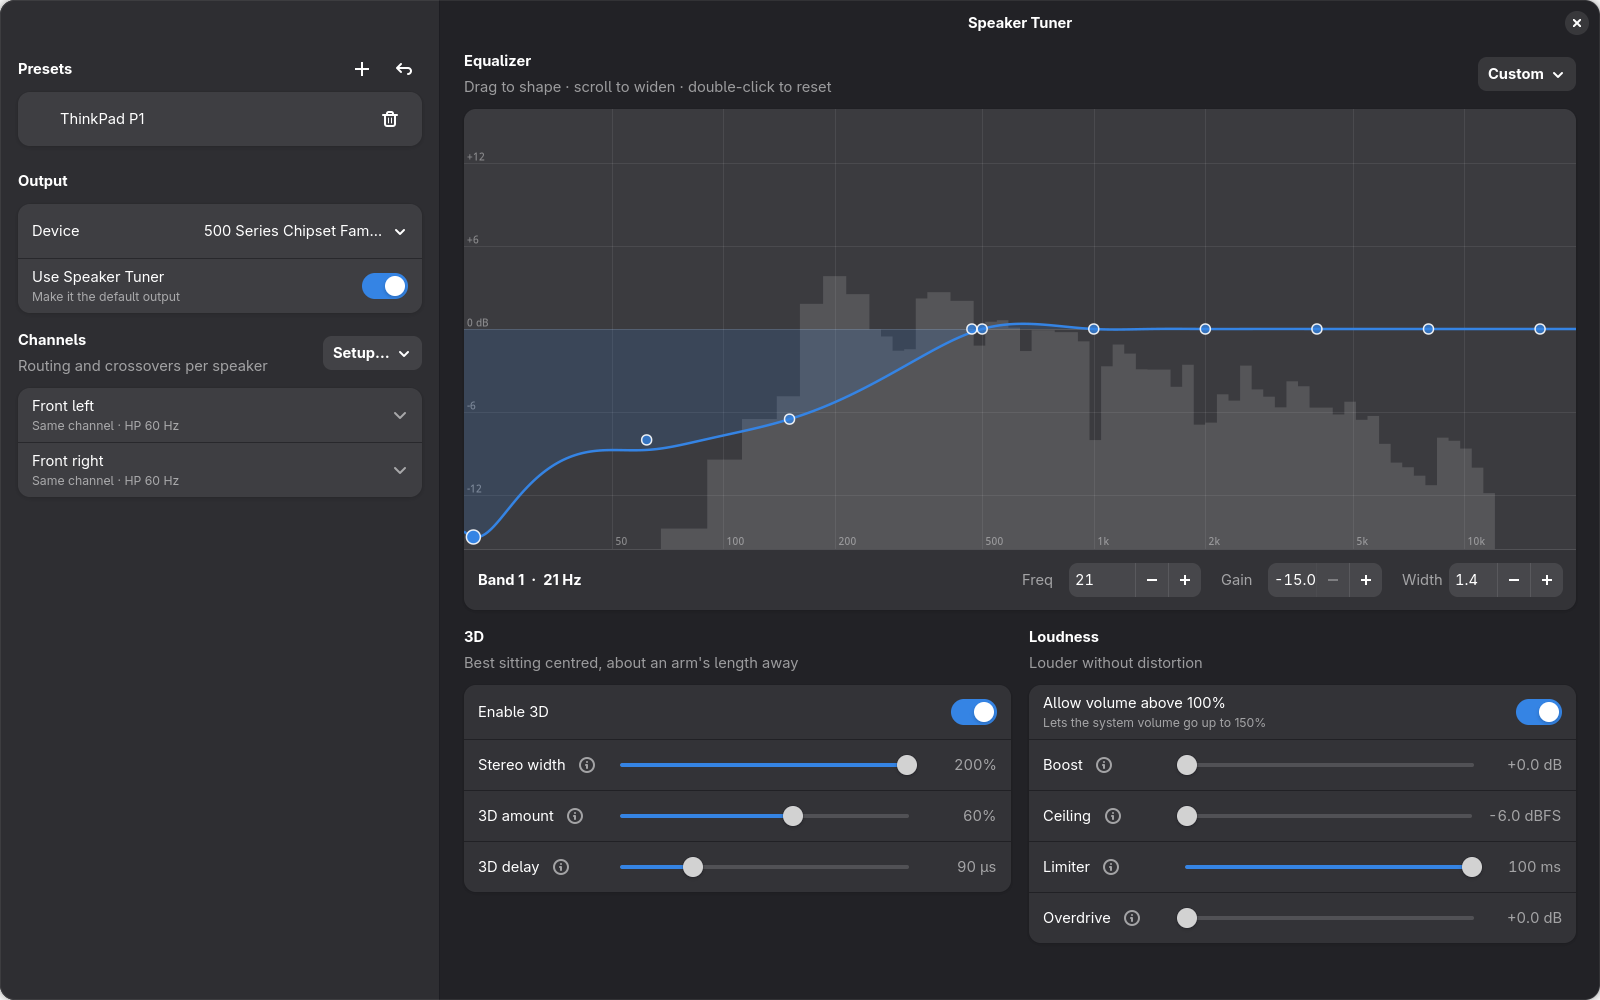
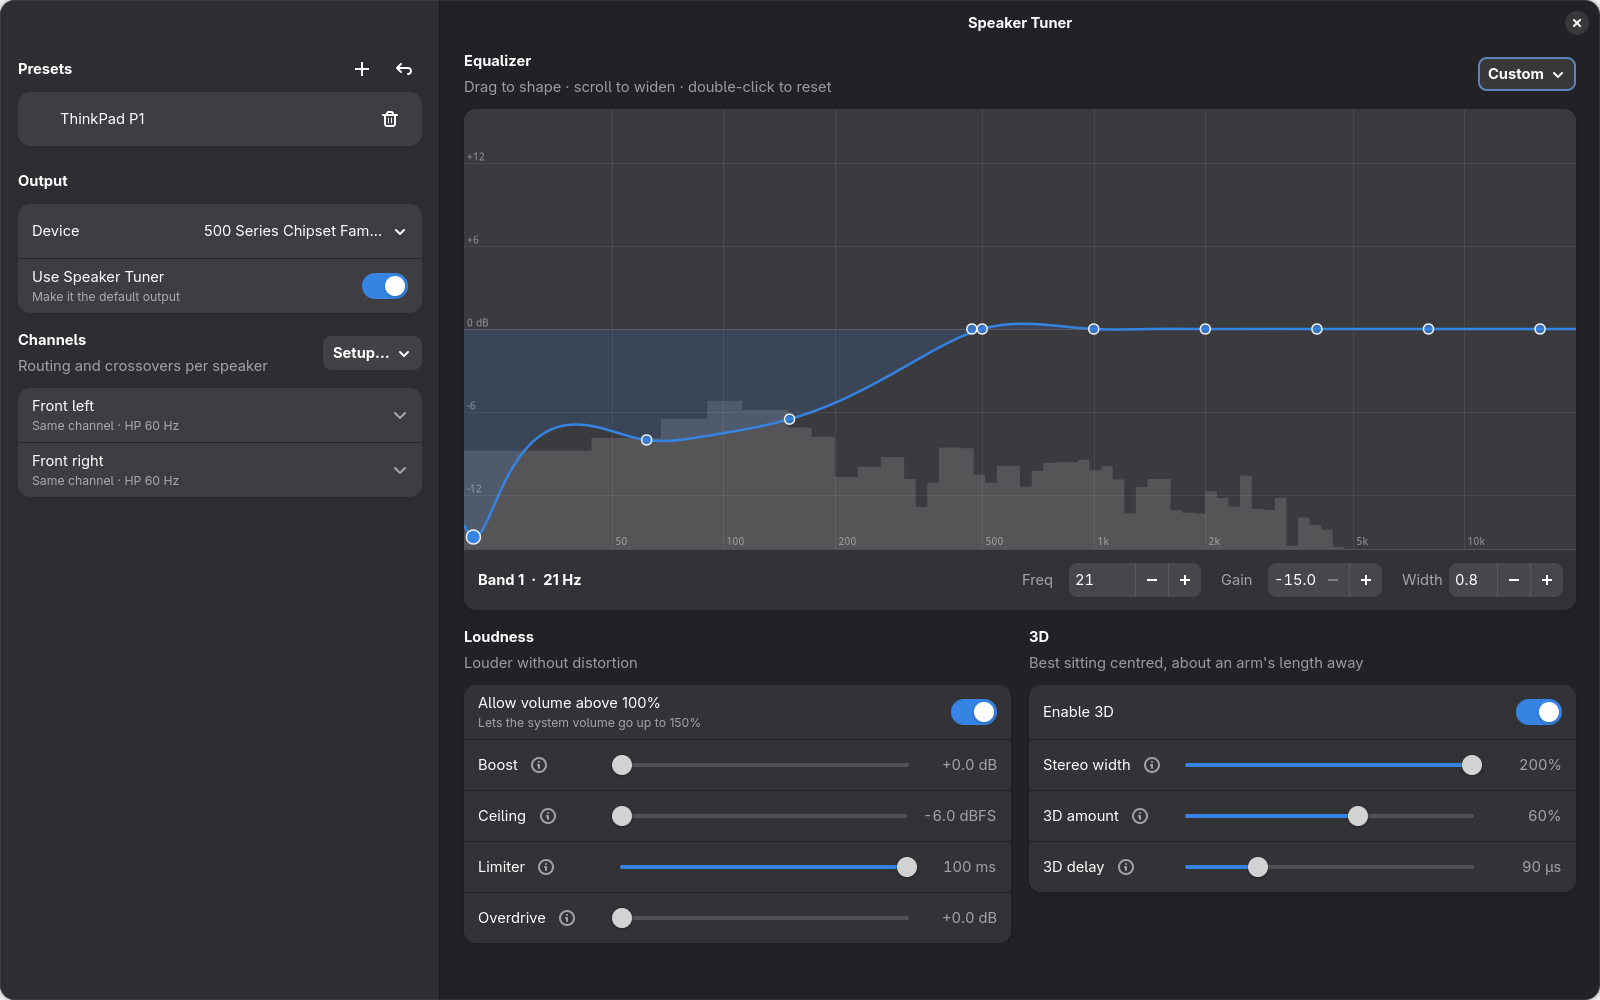
Loudness before 3D on desktop, 3D first on phones

diff --git a/speaker_tuner.py b/speaker_tuner.py
@@ -1041,6 +1041,7 @@ class Window(Adw.ApplicationWindow):
             phone.add_setter(self.side_box, side, 12)
         phone.add_setter(self.split, "min-sidebar-width", 280)
         self.add_breakpoint(phone)
+        self.phone_bp = phone
 
         # 3D and Loudness: stacked, or side by side on very wide windows
         self.lower = Gtk.Box(orientation=Gtk.Orientation.VERTICAL, spacing=18, homogeneous=False)
@@ -1048,6 +1049,7 @@ class Window(Adw.ApplicationWindow):
         g = Adw.PreferencesGroup(title="3D", description="Best sitting centred, about an arm's length away",
                                  hexpand=True, valign=Gtk.Align.START)
         self.lower.append(g)
+        self.spatial_group = g
         self.spatial_row = Adw.SwitchRow(title="Enable 3D")
         self.spatial_row.connect("notify::active", self.on_spatial)
         g.add(self.spatial_row)
@@ -1061,7 +1063,10 @@ class Window(Adw.ApplicationWindow):
             g.add(r)
         self.loudness_group.set_hexpand(True)
         self.loudness_group.set_valign(Gtk.Align.START)
-        self.lower.append(self.loudness_group)
+        # Loudness first on desktop; 3D first on phones (breakpoints can't reorder, so swap on apply/unapply)
+        self.lower.prepend(self.loudness_group)
+        self.phone_bp.connect("apply", lambda *_: self.lower.reorder_child_after(self.loudness_group, self.spatial_group))
+        self.phone_bp.connect("unapply", lambda *_: self.lower.reorder_child_after(self.spatial_group, self.loudness_group))
         wide = Adw.Breakpoint.new(Adw.BreakpointCondition.parse("min-width: 1400sp"))
         wide.add_setter(self.lower, "orientation", Gtk.Orientation.HORIZONTAL)
         wide.add_setter(self.lower, "homogeneous", True)
